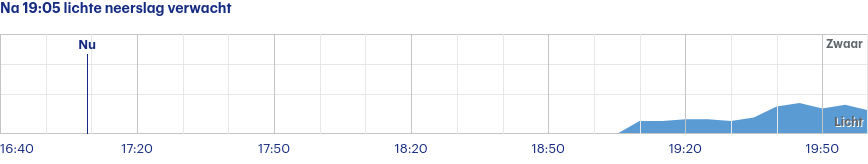
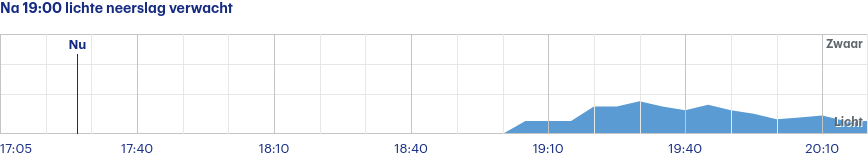
Latest scraping buienradar: Fri Aug 11 15:22:51 UTC 2023

diff --git a/scrapes/buienradar/buienradar-jette-3-uur.md b/scrapes/buienradar/buienradar-jette-3-uur.md
@@ -1,4 +1,4 @@
-Na 19:05 lichte neerslag verwacht
+Na 19:00 lichte neerslag verwacht
 
 ![](buienradar-jette-3-uur.png)
 
